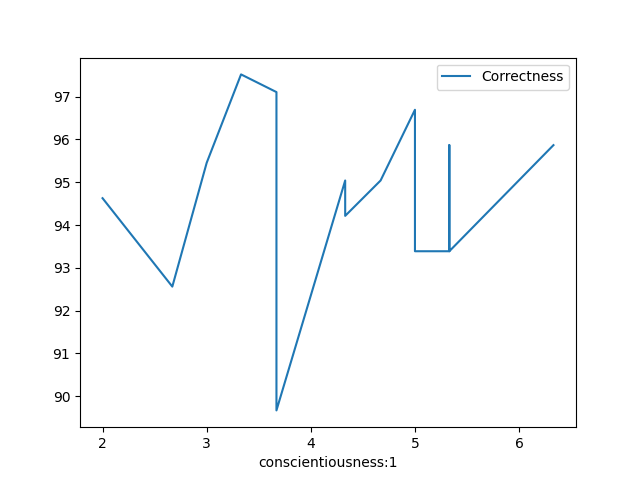
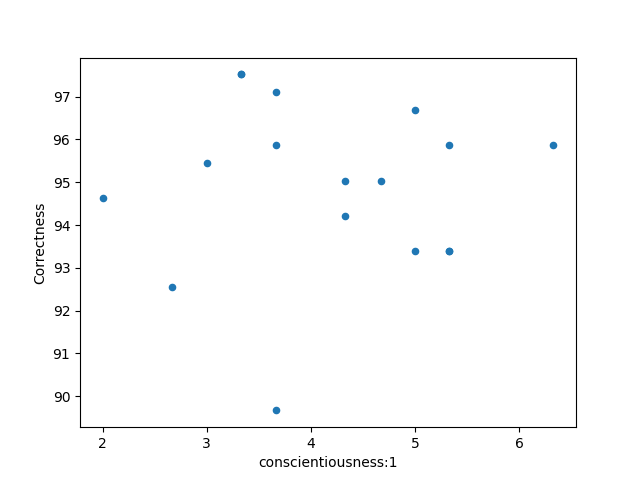
changed graphs from line to scatter

diff --git a/code/plotting.py b/code/plotting.py
@@ -11,7 +11,7 @@ def plot_stats(dataFrame, correlation_scores):
     for personality_name in personality_colmns:
         for sart_name in sart_colmns:
             dataFrame.sort_values(by=[personality_name], inplace=True)
-            dataFrame.plot(x=personality_name, y=sart_name, kind='line')
+            dataFrame.plot(x=personality_name, y=sart_name, kind='scatter')
             plt.savefig("../results/"+personality_name+sart_name+ ".png")
             plt.show()
 
